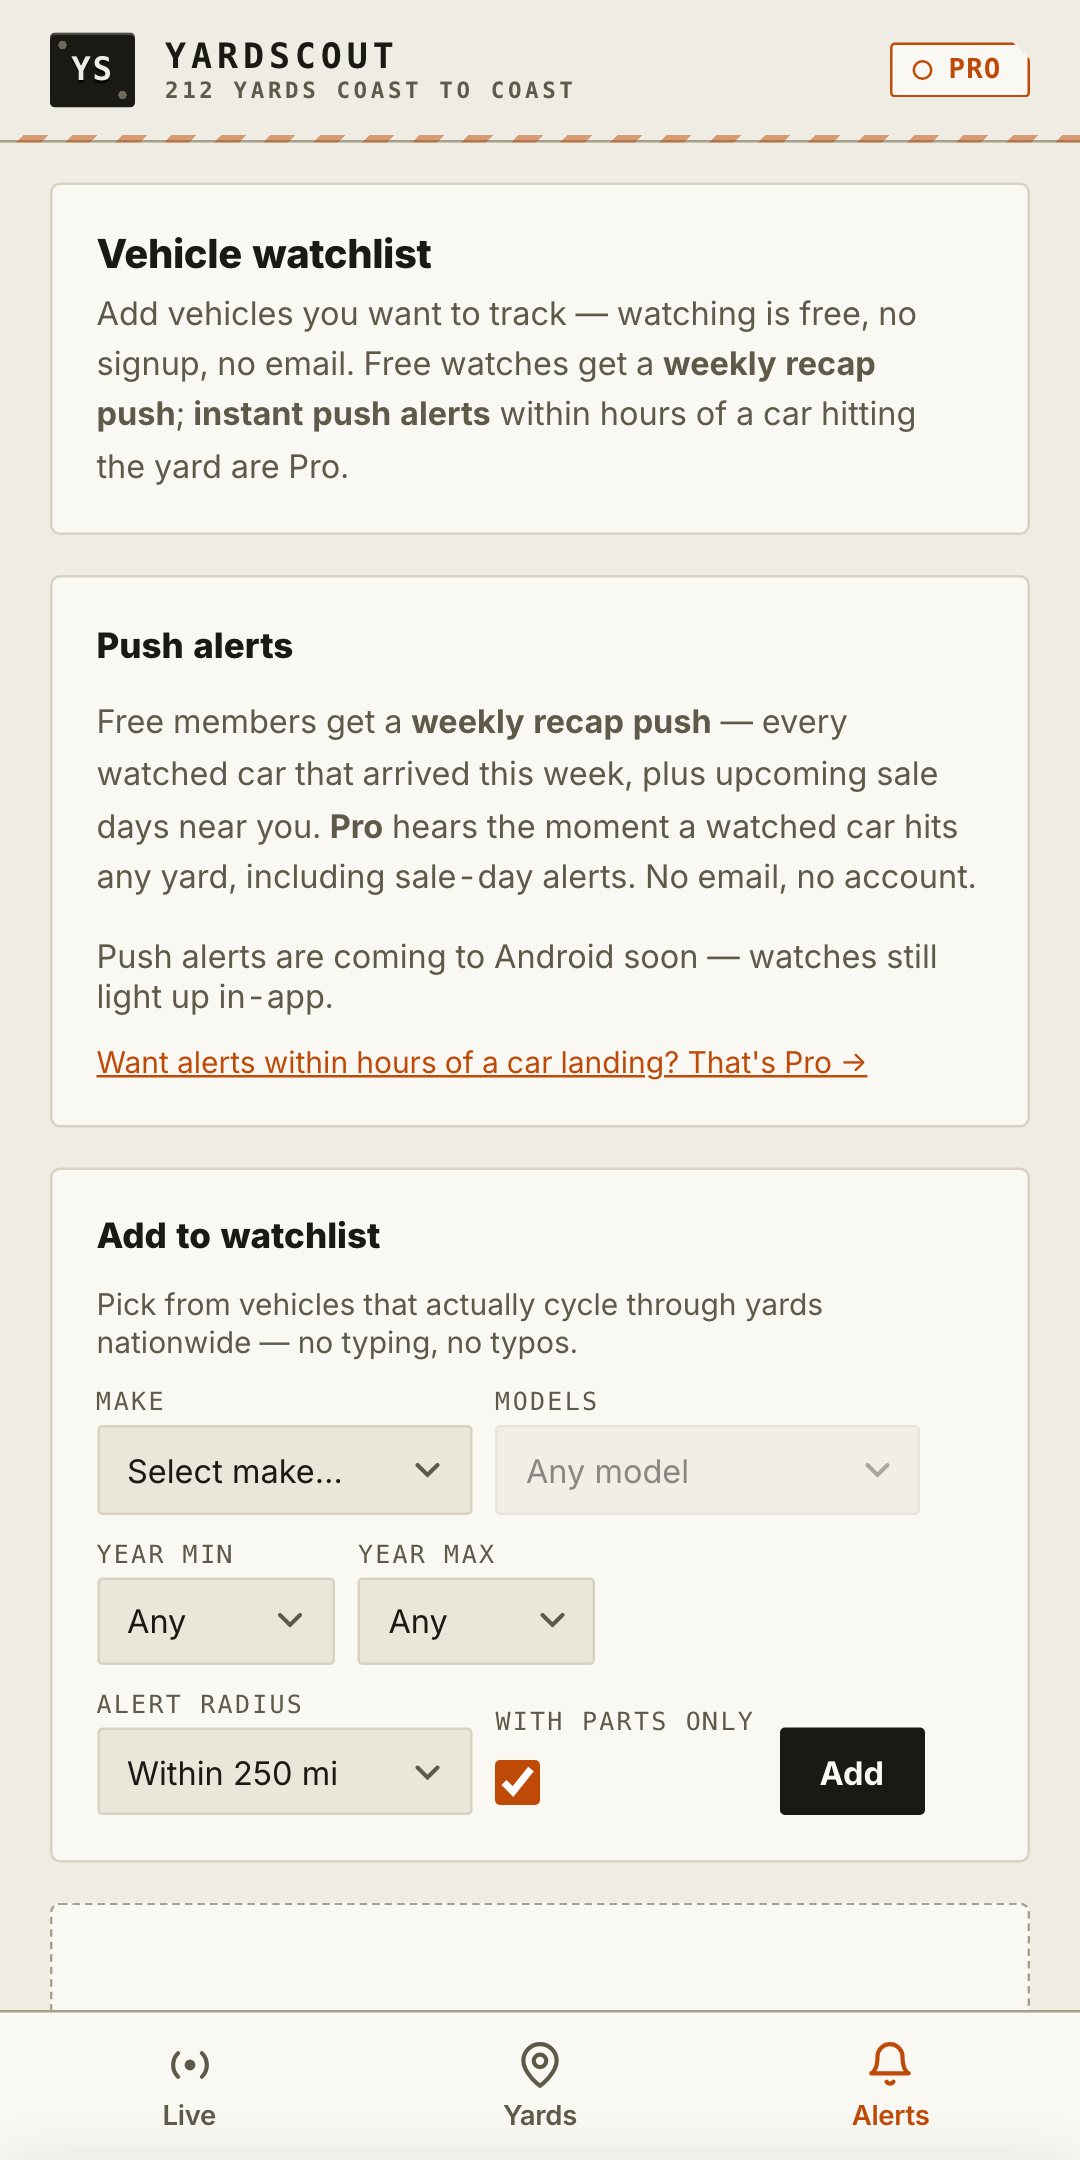
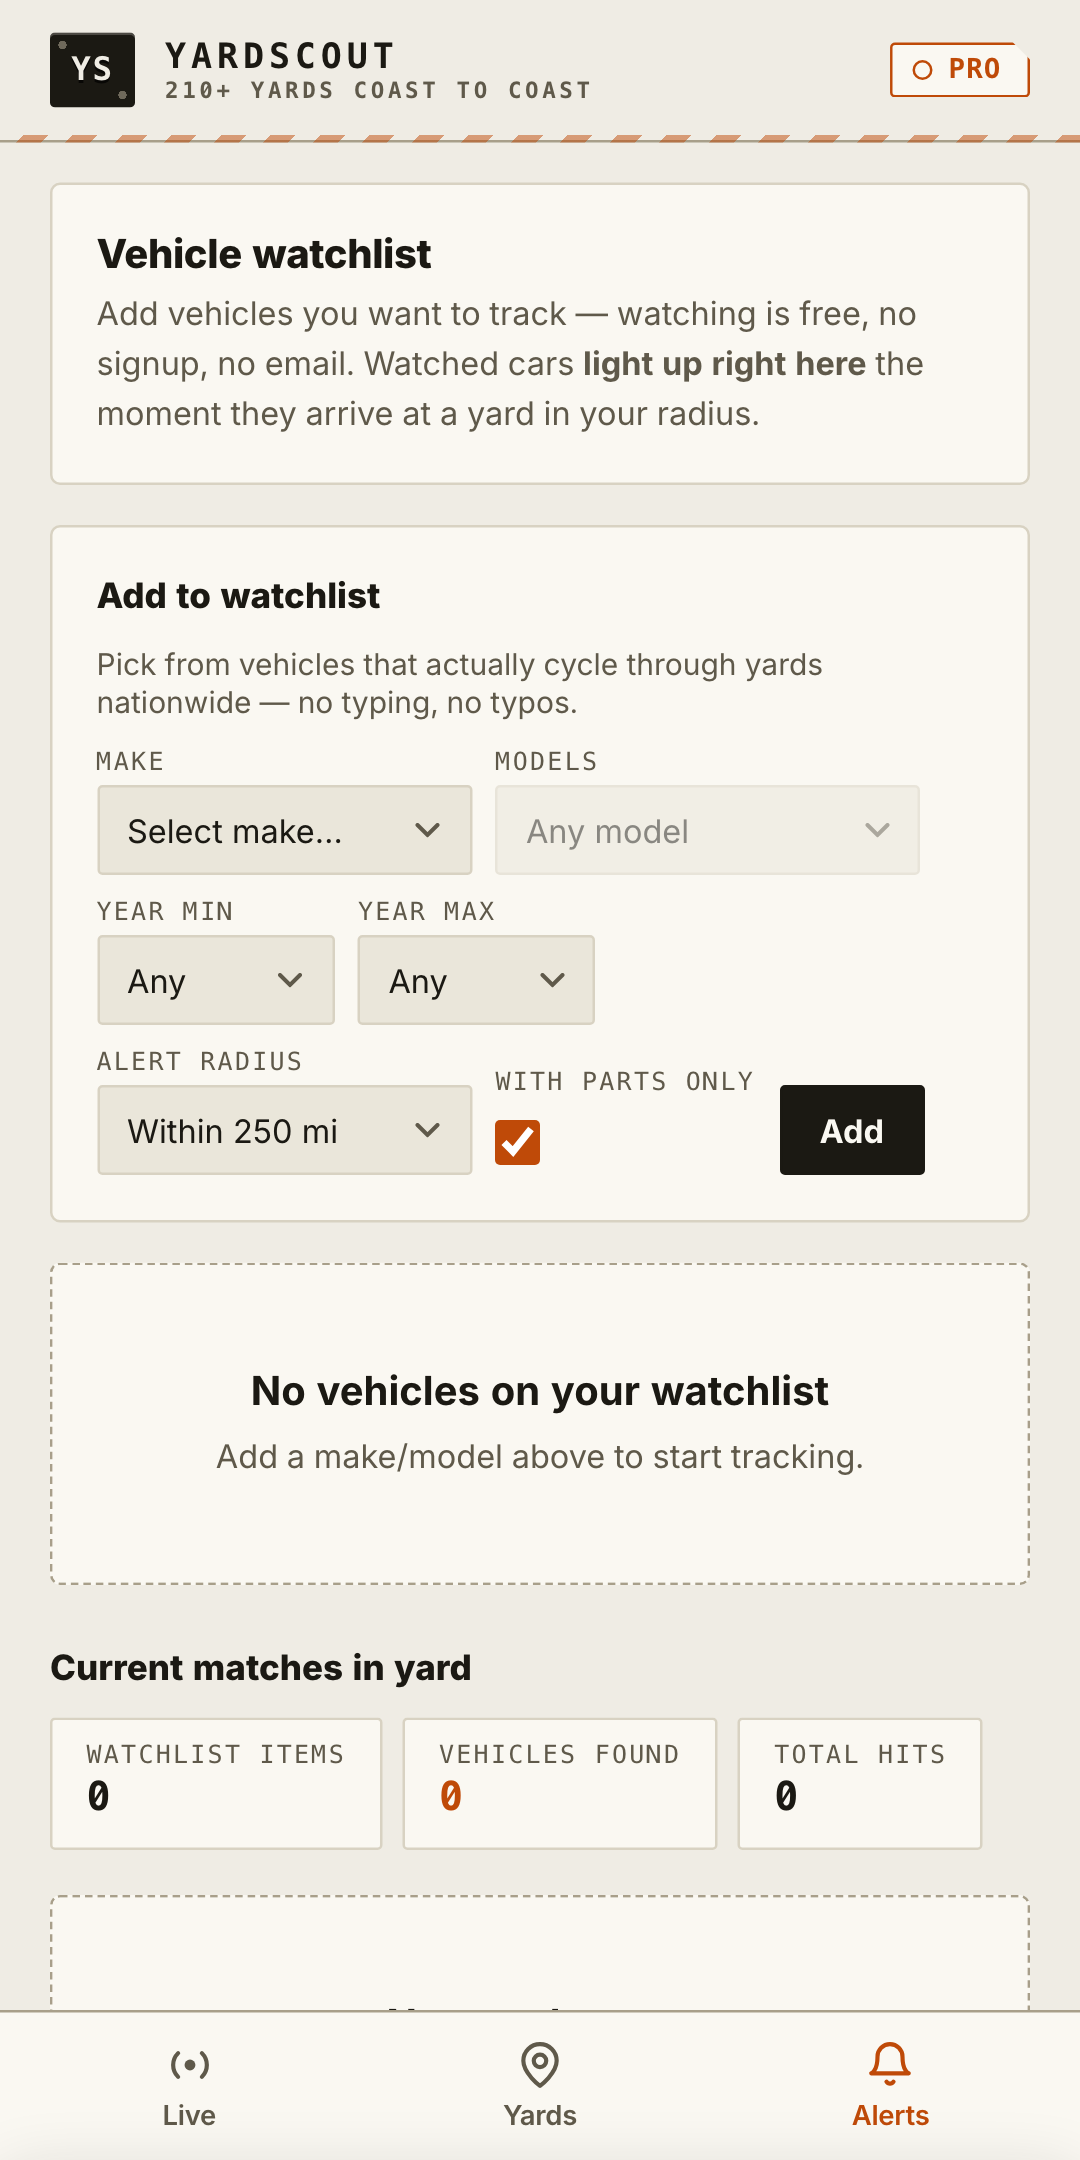
fix(play): honest Android alerts screenshot — no push promise, no 'coming soon'
Owner call: Android has no push until FCM ships in 1.2. Slide 5 now renders
in-app watchlist alerts only ('watched cars light up right here...'); the
capture asserts zero visible push/coming-soon strings. README notes how to
restore the push-state rendering after 1.2.

diff --git a/play-assets/_capture_android.py b/play-assets/_capture_android.py
@@ -10,13 +10,14 @@ house rules, Play-compliant geometry:
     set instead of squashing those renders.
   * Android Chrome user agent; the iOS-install-hint never fires off-iOS but
     ys_install_hint stays pre-set anyway (belt and braces).
-  * Shot 4 (alerts) reproduces the REAL Android build's alerts tab instead
-    of the web state: app.js's IS_NATIVE branch swaps #alerts-intro-copy to
-    the native wording and hides the web #alert-notif-btn; its IS_ANDROID
-    branch shows #native-alerts-note with the push button hidden and the
-    honest "Push alerts are coming to Android soon" status (no FCM project
-    yet). The web-only #appstore-alerts-panel ("Get the iOS app") is removed
-    exactly like the iOS rig does.
+  * Shot 4 (alerts) renders the honest Android watchlist state with NO push
+    wording at all (owner call, 2026-10-21): Android has no push today (FCM
+    lands in 1.2), and the listing must not promise it or say "coming soon".
+    So the capture hides every push surface — the web #alert-notif-btn, the
+    native #native-alerts-note panel, and the web-only #appstore-alerts-panel
+    ("Get the iOS app") — and swaps #alerts-intro-copy to in-app-only wording
+    in the app's own voice. When FCM ships in 1.2, restore the previous
+    native-state rendering (see git history / screenshots README).
   * Shot 5 (Pro) keeps the audited house rules: every part row must carry a
     concrete yard list price (UTPAP/wired-pricing yards — never the "check
     yard price list" fallback) and no option-dependent VIN-confirmed badges.
@@ -86,47 +87,53 @@ def load_with_zip(page):
     page.wait_for_timeout(4000)  # stats chips, fonts, images settle
 
 def alerts_shot(page):
-    # ---------- Shot 4: alerts tab, rendered as the Android build does ------
+    # ---------- Shot 4: alerts tab, honest Android state (no push copy) -----
     page.click('.tab[data-tab="alerts"]')
     page.wait_for_timeout(3000)
-    # Reproduce app.js's IS_NATIVE + IS_ANDROID alerts-tab state (the plain
-    # browser renders the web state, which name-drops "the iOS app"):
+    # Owner call (2026-10-21): Android has no push today (FCM lands in 1.2),
+    # so the listing shot must carry NO push promise and no "coming soon":
     #   - drop the web-only "Get the iOS app" panel (#appstore-alerts-panel)
     #   - hide the web Notification-API button (#alert-notif-btn)
-    #   - swap #alerts-intro-copy to the native wording (IS_NATIVE branch)
-    #   - show #native-alerts-note with the button hidden and the Android
-    #     "coming soon" status (nativePushInit's IS_ANDROID branch verbatim)
-    #   - hide the web-only Pro email-alerts panel (initEmailAlerts is a
-    #     no-op when IS_NATIVE; the web flow un-hides it for web visitors)
+    #   - hide the native push panel (#native-alerts-note) entirely
+    #   - swap #alerts-intro-copy to in-app-only wording (the app's own
+    #     muted voice; matches the listing's "watched cars light up" line)
+    #   - hide the web-only Pro email-alerts panel (native never shows it)
+    # When FCM ships in 1.2, restore the previous native-state rendering
+    # (git show b66d882^:play-assets/_capture_android.py).
     state = page.evaluate("""() => {
         document.getElementById('appstore-alerts-panel')?.remove();
         const email = document.getElementById('email-alerts-panel');
         if (email) email.style.display = 'none';
         const btn = document.getElementById('alert-notif-btn');
         if (btn) btn.style.display = 'none';
+        const note = document.getElementById('native-alerts-note');
+        if (note) note.remove();
         const intro = document.getElementById('alerts-intro-copy');
         if (intro) intro.innerHTML =
             'Add vehicles you want to track &mdash; watching is free, '
-            + 'no signup, no email. Free watches get a <strong>weekly recap '
-            + 'push</strong>; <strong>instant push alerts</strong> within '
-            + 'hours of a car hitting the yard are Pro.';
-        const note = document.getElementById('native-alerts-note');
-        if (note) note.style.display = '';
-        const pushBtn = document.getElementById('native-push-enable');
-        if (pushBtn) pushBtn.style.display = 'none';
-        const status = document.getElementById('native-push-status');
-        if (status) status.textContent = 'Push alerts are coming to Android '
-            + 'soon \\u2014 watches still light up in-app.';
+            + 'no signup, no email. Watched cars <strong>light up right '
+            + 'here</strong> the moment they arrive at a yard in your radius.';
+        // Tier-comparison Pro row: the Android build renders "In-app alerts
+        // ... (push coming to Android soon)" (app.js ~3376). Drop the
+        // parenthetical — in-app alerts are the honest today-truth.
+        const tierLi = document.getElementById('tier-alerts-li');
+        if (tierLi) tierLi.textContent = 'In-app alerts within hours of a '
+            + 'watched car hitting a yard \\u2014 including sale-day alerts';
+        const tab = document.querySelector('.tab-panel.active, body');
         return {
             iosPanelGone: !document.getElementById('appstore-alerts-panel'),
-            noteShown: !!note,
+            pushPanelGone: !document.getElementById('native-alerts-note'),
             emailPanelHidden: !email || email.style.display === 'none',
+            pushMentions: (tab.innerText.match(/push/gi) || []).length,
+            comingSoon: /coming/i.test(tab.innerText),
         };
     }""")
     page.wait_for_timeout(500)
     log(f"shot4 android alerts state: {state}")
-    assert state["iosPanelGone"] and state["emailPanelHidden"], \
-        "iOS/web-only panels still visible"
+    assert state["iosPanelGone"] and state["pushPanelGone"] \
+        and state["emailPanelHidden"], "push/web-only panels still visible"
+    assert state["pushMentions"] == 0 and not state["comingSoon"], \
+        f"push/coming-soon copy still rendered: {state}"
     shoot(page, "screen_4_alerts.png")
 
 def free_shots(page, alerts_only=False):

diff --git a/play-assets/screenshots/README.md b/play-assets/screenshots/README.md
@@ -23,13 +23,19 @@ the approved iOS set (CSS width 432 vs iOS 440).
 
 ## Android-specific honesty notes
 
-- **Shot 4 (alerts)** reproduces what the shipped Android app actually renders,
-  not the web page: the native intro copy (no "iOS app" mention), the web
-  Notification-API button and "Get the iOS app" panel removed, the web-only
-  email-alerts panel hidden, and the native Push alerts panel showing the
-  honest Android status — "Push alerts are coming to Android soon — watches
-  still light up in-app" (no FCM project yet; see `nativePushInit` in
-  `docs/app.js`).
+- **Shot 4 (alerts)** — re-captured 2026-10-21 (owner call): **no push
+  wording at all** while Android has no push (FCM is being built for 1.2).
+  The capture hides every push surface (web Notification-API button, native
+  `#native-alerts-note` push panel, web-only "Get the iOS app" and
+  email-alerts panels) and renders in-app-only copy: "Watched cars light up
+  right here the moment they arrive at a yard in your radius." The Pro
+  tier-comparison row renders "In-app alerts within hours…" without the
+  app's "(push coming to Android soon)" parenthetical. The capture asserts
+  zero visible "push"/"coming soon" strings before shooting.
+  - **When FCM ships in 1.2:** restore the push-state rendering of
+    `alerts_shot` in `_capture_android.py` from git
+    (`git show b66d882:play-assets/_capture_android.py`), re-capture
+    `--alerts-only`, and swap the slide in the Play listing.
 - **Shot 5 (Pro)** follows the house rules from the iOS review: a yard with
   real published prices (every part row carries a concrete UTPAP list price —
   no "check yard price list" fallbacks) and no option-dependent
